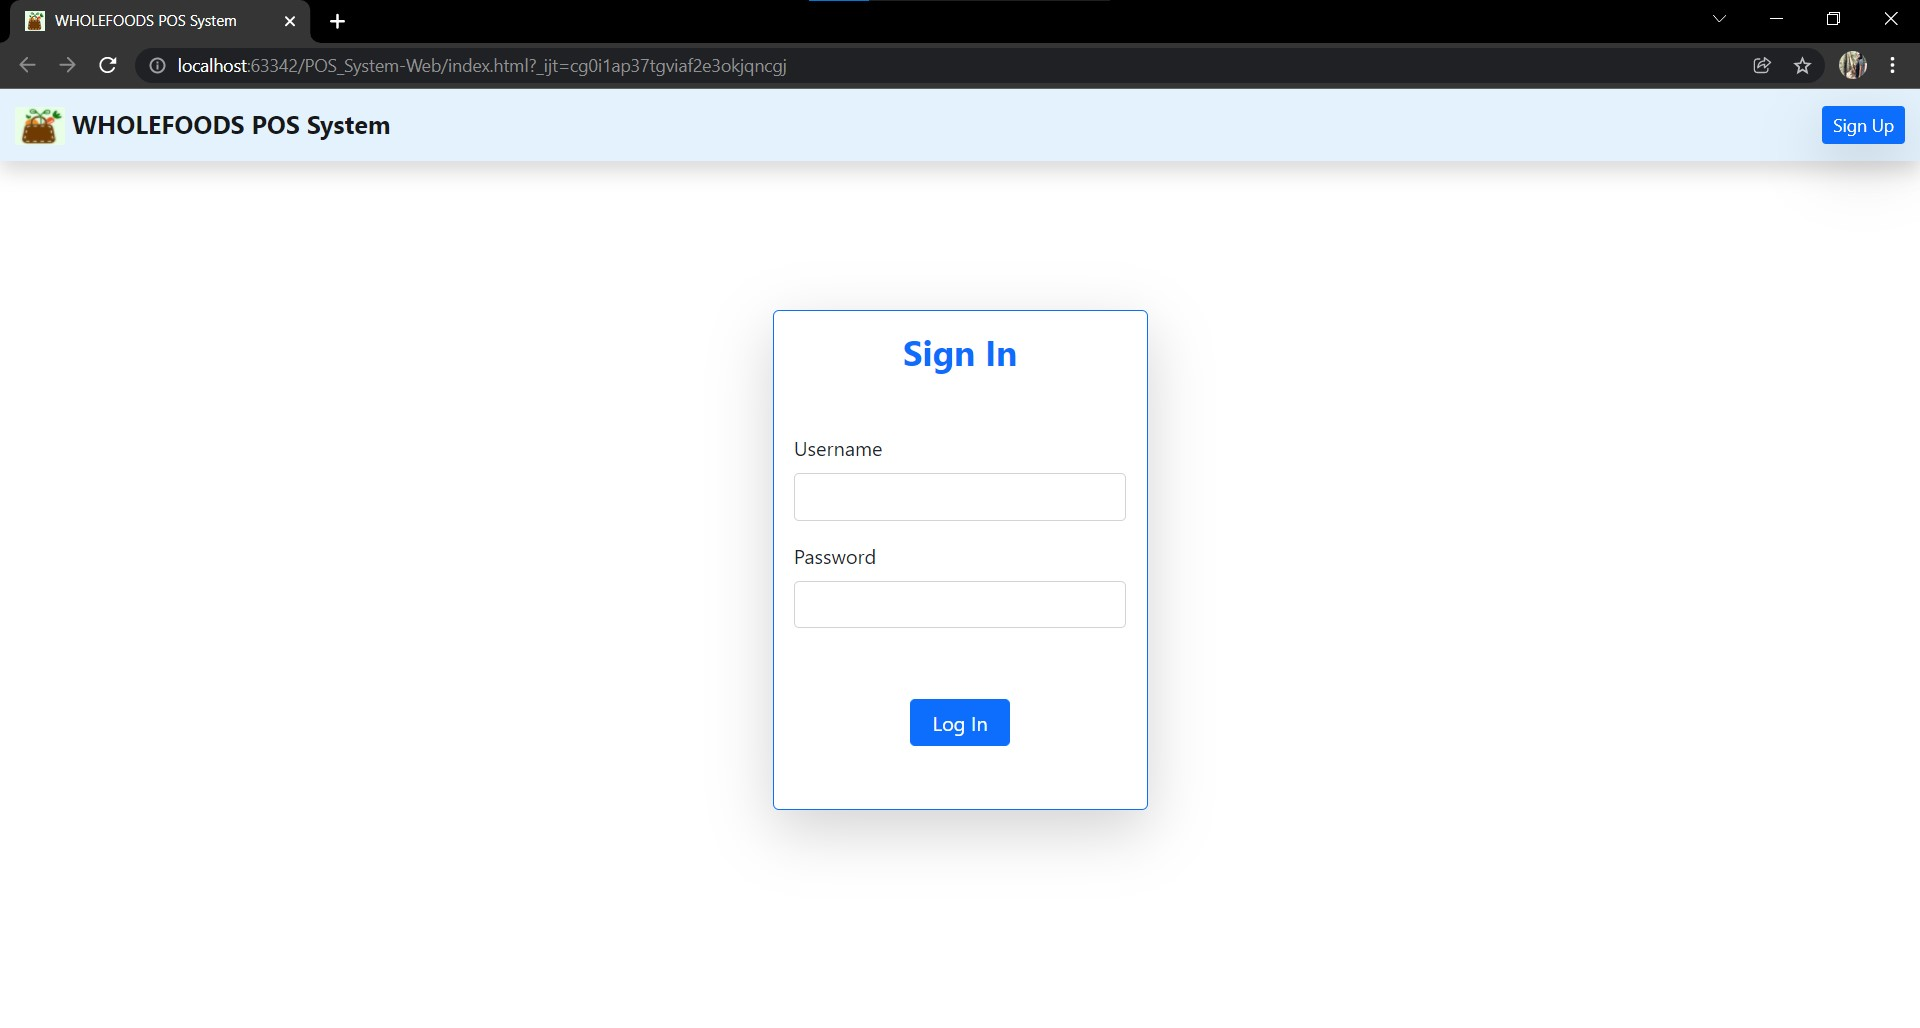
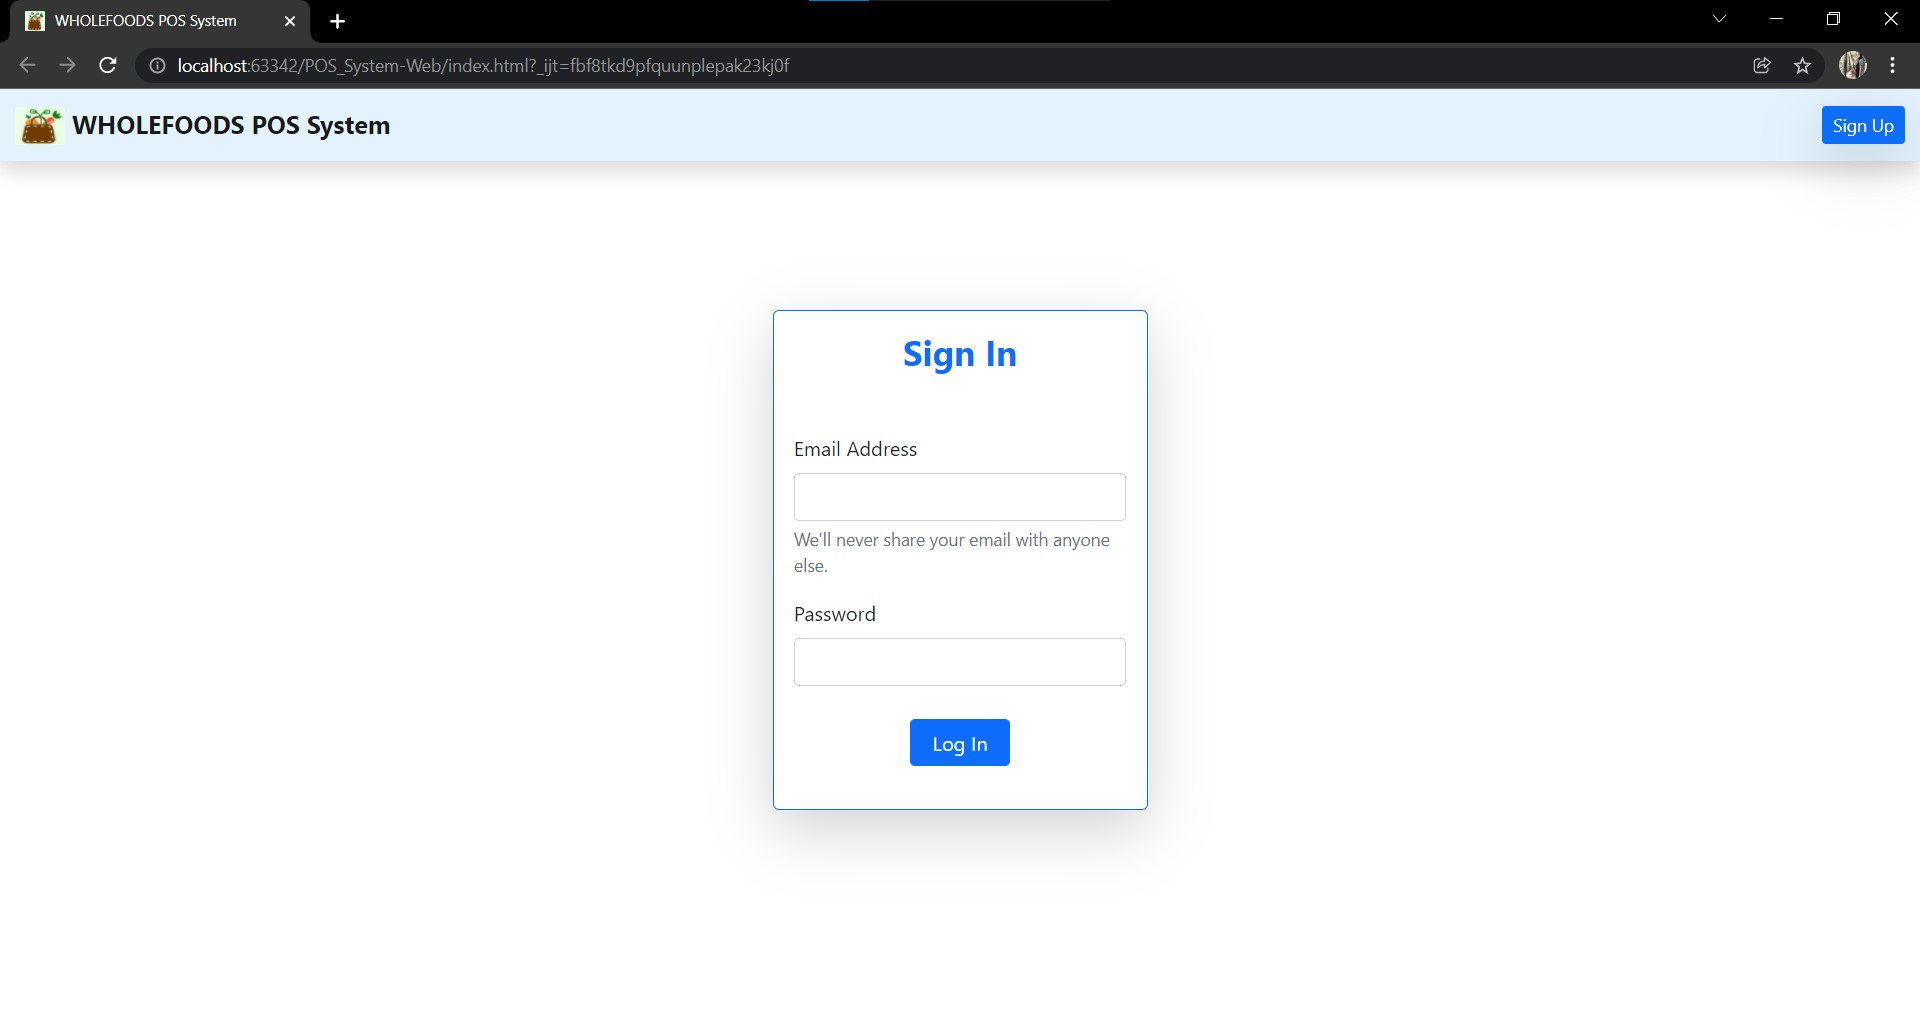
Update link of css assignment

diff --git a/myprojects/CSS Frameworks/BootstrapPOS/index.html b/myprojects/CSS Frameworks/BootstrapPOS/index.html
@@ -25,7 +25,7 @@
       position: absolute;
       left: 0;
       right: 0;
-      bottom: 50px;
+      bottom: 34px;
       margin: auto;
       width: 80px;
     }
@@ -87,8 +87,9 @@
       <h3 class="text-center fw-bold text-primary">Sign In</h3>
     </div>
     <div class="mb-3 mt-5">
-      <label for="exampleInputEmail1" class="form-label">Username</label>
+      <label for="exampleInputEmail1" class="form-label">Email Address</label>
       <input type="email" class="form-control" id="exampleInputEmail1" aria-describedby="emailHelp">
+      <div id="emailHelp" class="form-text">We'll never share your email with anyone else.</div>
     </div>
     <div class="mb-3">
       <label for="exampleInputPassword1" class="form-label">Password</label>

diff --git a/index.html b/index.html
@@ -2,7 +2,7 @@
 <html lang="en" xmlns:color="http://www.w3.org/1999/xhtml">
 <head>
     <meta charset="UTF-8">
-    <title>Welcome to My Profile</title>
+    <title>Hansi Hashani</title>
     <link rel="icon" href="assests/images/me.jpeg">
     <meta name="keywords" content="Hansi">
     <meta name="description" content="I'm Hansi Hashani, And I'm a Software Engineer.">
@@ -15,7 +15,6 @@
 
 
     <style>
-
         .screenshot:hover{
             outline: 5px solid #E20763;
             transform: scale(1.02) translateY(-5px);
